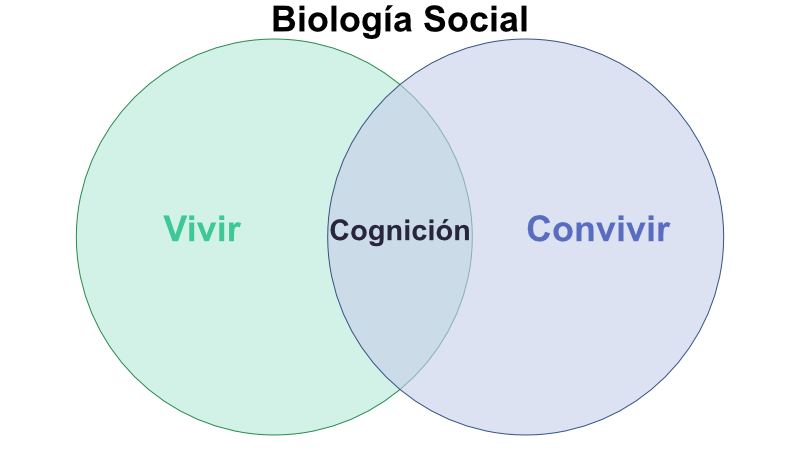
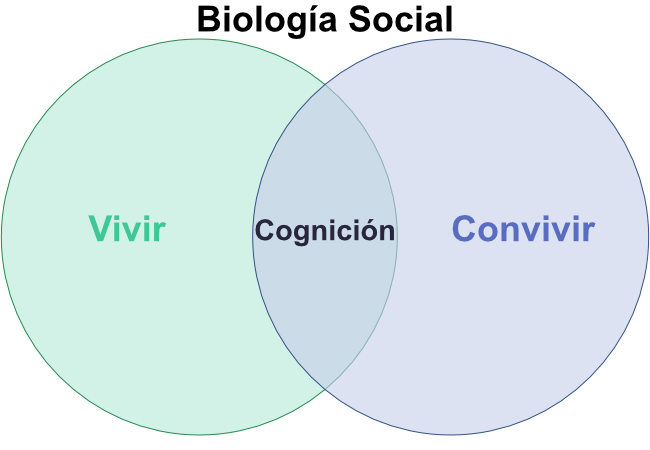
update

diff --git a/content/glosario/biologia-social.md b/content/glosario/biologia-social.md
@@ -1,9 +1,10 @@
 ---
 title: Biología Social
-date: 2026-11-08T23:46:48
+date: 2026-11-09
+date_crecion: 2026-11-08T23:46:48
 author: Fer Díaz-González
 type: glosario
-version: 1.0.0
+version: 1.2.1
 tags:
   - biología
 aliases:
@@ -29,7 +30,7 @@ La intersección entre ambos dominios constituye la [[cognicion|cognición]]: el
 
 **Figura 1. Acoplamiento entre los dominios de existencia (Vivir y Convivir) y la emergencia de la Cognición en la intersección operacional.**
 
-> [!bug] Zombie teórico
+> [!bug] **Zombie teórico**
 > El modelo de Biología Social, en su versión original, se fundamenta en un axioma que asume el carácter generativo del conocimiento -presente también en el constructivismo y socioconstruccionismo-, el cual critica al objetivismo bajo la premisa de que:
 > > **La realidad no es independiente del observador** o **no existe realidad independiente del observador.**
 > 
@@ -38,20 +39,21 @@ La intersección entre ambos dominios constituye la [[cognicion|cognición]]: el
 > - Cualquier lenguaje tiene validez para explicar la realidad.
 > - Pueden existir tantas realidades como modelos de lenguaje.
 >
-> El **zombie teórico** aquí, en la práctica de estos modelos, es asumir que las restriciones materiales de la naturaleza no existen y que todos los lenguajes pueden dar las mismas certezas sobre la realidad. Por ejemplo, desconociendo el lenguaje matemático en todas sus aplicaciones al diario vivir y convivir.
+> El **zombie teórico** aquí, en la práctica de estos modelos, es asumir que las restricciones materiales de la naturaleza no existen y que todos los lenguajes pueden dar las mismas certezas sobre la realidad. Por ejemplo, desconociendo el lenguaje matemático en todas sus aplicaciones al diario vivir y convivir.
 > 
-> **Reconocer las limitaciones congnitivas de los seres vivos no es causa para rechazar una realización material (ontológico) independiente del observador**. Efectivamente, la distinción de la realidad (sistema) es una accción del observador, pero dicha distinción se representa en una existencia material que posee restriciones en sus relaciones. Por ejemplo: las fuerzas del átomo, la cadena transportadora de electrones de la mitocondria, o el acto físico de escribir esto mismo en un papel.
+> **Reconocer las limitaciones congnitivas de los seres vivos no es causa para rechazar una realización material (ontológico) independiente del observador**. Efectivamente, la distinción de la realidad (sistema) es una acción del observador, pero dicha distinción se representa en una existencia material que posee restricciones en sus relaciones. Por ejemplo: las fuerzas del átomo, la cadena transportadora de electrones de la mitocondria, o el acto físico de escribir esto mismo en un papel.
 > 
-> Ahora, sin observador, el sistema es un campo de energía cuantizado con distintos niveles de acoplamiento material y estructural; es un dominio que está y es parte del sistema (realidad). Si el observador no fuera parte de un dominio material independiente que lo sostiene y lo restringe, ni siquiera podría hacer la distinción de `realidad` para empezar. Ignorar esa base es un error grave. A continuación, presento algunos ejemplos aplicados a la vida humana de este zombie teórico:
-> 1. **En economía y políticas públicas:** Pretender que la escasez material, las leyes de la oferta y la demanda, o los límites termodinámicos de la energía se pueden superar a punta de decreto, ignorando el flujo de recursos físicos y la termodinámica de los sistemas productivos.
-> 2. **En salud y biomedicina:** Las corrientes que niegan la base material de la patología o la biología evolutiva, creyendo que las enfermedades o los estados fisiológicos se pueden disolver puramente mediante "resignificación discursiva" o actitud mental, ignorando las restricciones como la genética, epigenética o bioquímica.
-> 3. **En ecología y planificación urbana:** Diseñar modelos de crecimiento económico e industrial indefinido en un planeta con recursos finitos, bajo el dogma de que la tecnología o los acuerdos sociales pueden saltarse indefinidamente los límites biofísicos de los ecosistemas.
+> Ahora, **sin observador**, el sistema es un [[flujo]] de energía cuantizado que se distingue como concentraciones locales de [[materia]] e [[informacion|información]], en distintos niveles de acoplamiento estructural en el espacio-tiempo; es un dominio que está y es parte del sistema (realidad). Si el observador no fuera parte de un dominio material independiente que lo sostiene y lo restringe, ni siquiera podría hacer la distinción de `realidad` para empezar. Ignorar esa base es un error grave.
+> > [!example] Ejemplos aplicados a la vida humana de este zombie teórico:
+> > 1. **En economía y políticas públicas:** Pretender que la escasez material, las leyes de la oferta y la demanda, o los límites termodinámicos de la energía se pueden superar a punta de decreto, ignorando el flujo de recursos físicos y la termodinámica de los sistemas productivos.
+> > 2. **En salud y biomedicina:** Las corrientes que niegan la base material de la patología o la biología evolutiva, creyendo que las enfermedades o los estados fisiológicos se pueden disolver puramente mediante "resignificación discursiva" o actitud mental, ignorando las restricciones como la genética, epigenética o bioquímica.
+> > 3. **En ecología y planificación urbana:** Diseñar modelos de crecimiento económico e industrial indefinido en un planeta con recursos finitos, bajo el dogma de que la tecnología o los acuerdos sociales pueden saltarse indefinidamente los límites biofísicos de los ecosistemas.
 
-> [!check] Propuesta teórica
+> [!check] **Propuesta teórica**
 > Por el contrario, mi modelo revisado de Biología Social se soporta en el siguiente axioma, basado en la visión sistémica de la vida y mi propia definición de [[sistema]].
 > > **La realidad es independiente y dependiente del observador.**
 > 
-> En tanto sistema, la realidad es una distinción del observador y, basado en el **monismo físico-energético**, define tres dominios de existencia:
+> En tanto sistema, la realidad es una distinción del observador y, basado en el **monismo físico-energético**, define tres dominios de fundamentales de existencia:
 > - **Ontológico:** Realización material (independiente).
 > - **Epistemológico:** Representación material (dependiente).
 > - **Metodológico:** Enacción procedimental (interdependiente).

diff --git a/content/glosario/informacion.md b/content/glosario/informacion.md
@@ -1,0 +1,41 @@
+---
+title: Información
+date: 2026-11-09T13:55:45
+author: Fer Díaz-González
+type: producto
+version: 1.0.0
+tags:
+  - cibernética
+aliases:
+  - información
+---
+
+Literalmente, «aquello que se forma dentro». Pero de manera más adecuada: el equivalente o la capacidad de algo para realizar **trabajo organizacional**; la diferencia entre dos formas de **organización** o entre dos estados de **incertidumbre** antes y después de haber recibido un mensaje; así como también el grado en que una **variable** de un **[[sistema]]** depende de, o está restringida por, otra [^1].
+
+[^1]: Krippendorff, K. (1986). A dictionary of cybernetics. The American Society for Cybernetics. https://asc-cybernetics.org/publications/Krippendorff/A_Dictionary_of_Cybernetics.pdf
+
+Para un sistema, la información es el concepto unificador fundamental que equivale, para las estructuras organizadas, a lo que la energía representa para la física clásica: la capacidad de ejercer trabajo organizacional y control guiado hacia un propósito [^2]. Asimismo, los datos brutos no constituyen información por sí mismos, sino que requieren ser integrados dentro de un marco de referencia explícito y una [[red]] de elementos interactivos que fluyen en el espacio-tiempo para adquirir significado, transformar el conocimiento y reducir la incertidumbre del observador.
+
+[^2]: Bertalanffy Center for the Study of Systems Science (2020). Information. In Charles François (Ed.), International Encyclopedia of Systems and Cybernetics. Retrieved from http://systemspedia.bcsss.org/?title=INFORMATION
+
+Desde esta perspectiva sistémica, se despliega en una doble dimensión [^2]: 
+
+- **Adquisición de conocimiento:** mediante el registro y la observación.
+- **Poder de organización y acción creadora:** capaz de dar orden, estructura y dirección sobre la realización [[materia|material]].
+
+Dado que la información está vinculada a ciertos cambios, diferencias o dependencias, resulta conveniente referirse a estos y distinguir entre *información almacenada*, *información transportada*, *información transmitida*, *información requerida*, etc. La información pura y sin calificar es una abstracción no justificada.
+
+  > [!example] **Ejemplos**
+  > - El ADN porta **información genética** en la medida en que organiza o controla el crecimiento ordenado de un organismo vivo.
+  > - Un mensaje porta información en la medida en que transmite algo que no se conocía previamente.
+  > - La respuesta a una pregunta porta información en la medida en que reduce la incertidumbre de quien pregunta.
+  > - Una línea telefónica porta información solo cuando las señales enviadas se correlacionan con las recibidas.
+  
+  > [!abstract] **Nota técnica: medición y Teoría de la Información**
+  > La **Teoría de la Información** mide las cantidades de todos estos tipos de información en términos de *bits*. Cuanto mayor es la incertidumbre eliminada por un mensaje, mayor es la correlación entre la **entrada** y la **salida** de un **canal de comunicación**, y cuanto más detalladas son las instrucciones particulares, mayor es la información transmitida [^1].
+
+
+
+
+
+

diff --git a/content/ideario/ide_sentido-vida.md b/content/ideario/ide_sentido-vida.md
@@ -20,7 +20,7 @@ Durante siglos, el sentido de la vida ha sido un tema que ha inspirado intensa c
 
 Otros argumentan que, en sí misma, **la vida no tiene un sentido** y, por eso, los individuos tienen que crear su propio propósito o razón de ser.
 
-Por lo anterior, se ha definido al sentido de la vida como los juicios subjetivos de las personas sobre que sus vidas están marcadas por la coherencia, el propósito y el significado [^1], que emergen de “la **red de conexiones, interpretaciones, aspiraciones y evaluaciones** que:
+Por lo anterior, se ha definido al sentido de la vida como los juicios subjetivos de las personas sobre que sus vidas están marcadas por la coherencia, el propósito y el significado [^1], que emergen de “la **[[red]] de conexiones, interpretaciones, aspiraciones y evaluaciones** que:
 
 [^1]: Steger, M. F. (2022). *Meaning in life is a fundamental protective factor in the context of psychopathology*. World Psychiatry, 21(3), 389–390. https://doi.org/10.1002/wps.20916
 
@@ -28,7 +28,7 @@ Por lo anterior, se ha definido al sentido de la vida como los juicios subjetivo
 2. Dirigen nuestros esfuerzos hacia futuros deseados.
 3. Proporcionan la sensación de que nuestras vidas importan y valen la pena."
 
-Desde la visión sistémica, la vida es una propiedad emergente que involucra la relación entre el ser vivo (unidad autopoiética u organismo), la cognición y el entorno (medio ambiente) (**Fig.1**) [^2]. Así, **el organismo procesa información**, con la percepción, pensamiento, toma de decisiones, competencia lingüística y control motor [^3], **desde el entorno**, un hipervolumen multidimensional que incluye todos los factores bióticos (ej. unidades autopoiéticas) y abióticos (ej. temperatura, humedad, etc.) con los que el organismo se relaciona [^4].
+Desde la visión sistémica, la vida es una propiedad emergente que involucra la relación entre el ser vivo (unidad autopoiética u organismo), la [[cognicion|cognición]] y el entorno (medio ambiente) (**Fig.1**) [^2]. Así, **el organismo procesa [[informacion|información]]**, con la percepción, pensamiento, toma de decisiones, competencia lingüística y control motor [^3], **desde el entorno**, un hipervolumen multidimensional que incluye todos los factores bióticos (ej. unidades autopoiéticas) y abióticos (ej. temperatura, humedad, etc.) con los que el organismo se relaciona [^4].
 
 [^2]: Capra, F., & Luisi, P. L. (2016). The systems view of life. Cambridge, England: Cambridge University Press. https://doi.org/10.1017/CBO9780511895555
 

diff --git a/content/glosario/sistema.md b/content/glosario/sistema.md
@@ -1,10 +1,10 @@
 ---
 title: Sistema
-date: 2026-11-06
+date: 2026-11-09
 date_creacion: 2026-11-03T18:57:04
 author: Fer Díaz-González
 type: glosario
-version: 1.1.0
+version: 2.1.0
 tags:
   - cibernética
 aliases:
@@ -14,3 +14,18 @@ aliases:
 Del lat. tardío *systēma*, y este del gr. σύστημα *sýstēma*, representa **un conjunto de componentes junto con las relaciones (restricciones) que los conectan para formar una unidad completa** [^1]. A diferencia de la Teoría General de Sistemas, en Cibernética de segundo orden un sistema *es una construcción del observador*. Si describe, simula o predice una porción de su entorno, puede considerarse un modelo de esa porción. El modelo y el "mundo" modelado comparten la misma organización, pero debido a sus diferentes realizaciones materiales es probable que difieran en estructura. **Los sistemas no existen independientemente de un observador ni implican un propósito intrínseco**.
 
 [^1]: Krippendorff, K. (1986). A dictionary of cybernetics. The American Society for Cybernetics. https://asc-cybernetics.org/publications/Krippendorff/A_Dictionary_of_Cybernetics.pdf
+
+> [!check] Propuesta teórica: definición de Sistema
+> Es la unidad, de componentes y relaciones (restricciones), distinguida por un agente (observador) sobre un hipervolumen físico-energético en el espacio-tiempo. Sin la distinción del observador, existe un [[flujo]] de energía cuantizado que se manifiesta como concentraciones locales de [[materia]] e [[informacion|información]], en distintos niveles de acoplamiento estructural.
+> Para el agente (observador), y en base al **monismo físico-energético**, el sistema se distingue en tres dominios fundamentales de existencia (**Fig.1**):
+> - **Ontológico**: que define la realización material del sistema (independiente del agente).
+> - **Epistemológico**: que define la representación material del sistema (dependiente del agente).
+> - **Metodológico**: que define la enacción procedimental del sistema (interdependiente).
+
+> [!question] Agente (observador)
+> > [!check] Sistema
+> > <div align="center">
+> >   <img src="sistema_venn-diagram.png" style="max-width: 80%; height: auto;" />
+> > </div>
+
+**Figura 1. Despliegue de los dominios de existencia del sistema según la distinción del agente (observador).**

diff --git a/content/glosario/red.md b/content/glosario/red.md
@@ -1,0 +1,27 @@
+---
+title: Red
+date: 2026-11-09T21:14:00
+author: Fer Díaz-González
+type: glosario
+version: 1.0.0
+tags:
+  - cibernética
+aliases:
+  - redes
+---
+
+1. Un [[sistema]] de canales, enlaces de comunicación, rutas de [[flujo|flujos]] de [[informacion|información]], caminos, etc., semejante a un tejido o diagrama de cableado y describible como un grafo [^1].
+2. Estructura de enlaces de comunicación que permite el intercambio de energía, [[materia]] e/o información entre los elementos (procesadores) o subsistemas de un sistema. A diferencia de las estructuras en árbol (que sugieren una subordinación secuencial y vertical de las partes), la conectividad recíproca de una red promueve la coordinación de los elementos, representándose formalmente como un grafo dirigido [^2].
+
+[^1]: Krippendorff, K. (1986). A dictionary of cybernetics. The American Society for Cybernetics. https://asc-cybernetics.org/publications/Krippendorff/A_Dictionary_of_Cybernetics.pdf
+
+[^2]: Bertalanffy Center for the Study of Systems Science (2020). Network. In Charles François (Ed.), International Encyclopedia of Systems and Cybernetics. Retrieved from http://systemspedia.bcsss.org/?title=NETWORK
+
+Las redes son fundamentalmente:
+
+- **Combinatorias:** sujetas a reglas.
+- **Autocatalíticas:** mediante la construcción espontánea de ciclos funcionales.
+
+Cada elemento adquiere una actividad específica al vincularse con otros que actúan sobre él o sobre los cuales él actúa. Toda red está predefinida por **restricciones** (*constraints*) apropiadas: una selección deliberada de enlaces útiles (actuales o potenciales) que excluye aquellos no significativos para el funcionamiento del sistema [^2].
+
+Además, se caracterizan por una **interdependencia autorreferencial** entre las partes y el todo, manteniendo el equilibrio del sistema ante perturbaciones internas y externas. Dado que los elementos de la red operan en paralelo de manera síncrona, la sucesión de sus estados determina la **trayectoria de la red**, generando su propia estructura mediante procesos autorregulados de ensayo y error en lugar de algoritmos rígidos preprogramados [^2].

diff --git a/content/glosario/flujo.md b/content/glosario/flujo.md
@@ -1,0 +1,18 @@
+---
+title: Flujo
+date: 2026-11-09T20:21:27
+author: Fer Díaz-González
+type: glosario
+version: 1.0.0
+tags:
+  - cibernética
+aliases:
+  - flujos
+---
+
+Es el desplazamiento de energía, [[materia]] o [[informacion|información]] que tiende a reducir una diferencia de nivel o gradiente entre un [[sistema]] y su entorno, o entre subsistemas dentro del mismo. Se define formalmente en función de las **tasas de cambio** de los valores de los atributos del sistema [^1].
+  La permanencia de un flujo depende de la mantención continua del gradiente entre la fuente (*source*) y el sumidero (*sink*). Todo flujo responde a un gradiente conjugado específico e involucra la realización de un trabajo, conllevando inherentemente la degradación o disipación de la energía que transporta.
+  > [!example] **Ejemplo**
+  > Nuestro planeta podrá mantener y crear estructuras organizadas y disipar calor hacia el espacio exterior solo mientras el Sol mantenga su capacidad de producir energía a un nivel más o menos constante.
+
+[^1]: Bertalanffy Center for the Study of Systems Science (2020). Flow. In Charles François (Ed.), International Encyclopedia of Systems and Cybernetics. Retrieved from http://systemspedia.bcsss.org/?title=FLOW

diff --git a/content/glosario/materia.md b/content/glosario/materia.md
@@ -1,0 +1,17 @@
+---
+title: Materia
+date: 2026-11-09T20:08:15
+author: Fer Díaz-González
+type: glosario
+version: 1.0.0
+tags:
+  - ciencia
+aliases:
+  - material
+---
+
+*(y su condición adjetiva, **material**)* - Todo elemento perteneciente o relativo a la **materia** [^1]. Para un [[sistema]], la materia constituye todo lo que pueda percibirse que ocupa un espacio durante un tiempo determinado. Es decir, la materialización o concentración local de energía e [[informacion|información]] acoplada en el espacio-tiempo [^2]. Sin embargo, la llamada «materia» podría ser una interpretación perceptiva y conceptual fragmentada de una realidad integrada cuya verdadera naturaleza sigue siendo esquiva.
+
+[^1]: Real Academia Española: Diccionario de la lengua española, 24.ª ed., [versión 24 en línea]. https://dle.rae.es/material [09-11-2026].
+
+[^2]: Bertalanffy Center for the Study of Systems Science (2020). Matter. In Charles François (Ed.), International Encyclopedia of Systems and Cybernetics. Retrieved from http://systemspedia.bcsss.org/?title=MATTER

diff --git a/content/glosario/problema.md b/content/glosario/problema.md
@@ -28,7 +28,7 @@ De manera más precisa, una **situación** $X$ es un **problema** para el **agen
 
 Como ilustro en la **Figura 1**, los criterios necesarios y suficientes del problema operan en dos dominios interrelacionados explícitos que describen a un agente $A$ en situación $X$ con meta $G$ (otra situación). Entendiendo que toda situación es un [[sistema]], los dominios son:
 
-- **Ontológico:** que define la realización material del sistema.
+- **Ontológico:** que define la realización [[materia|material]] del sistema.
 - **Epistemológico:** que define la representación material del sistema.
 
 Cuando ambos dominios explícitos son positivos, se tiene y se reconoce un problema, emerge un tercer dominio implícito que permite resolver el problema:
